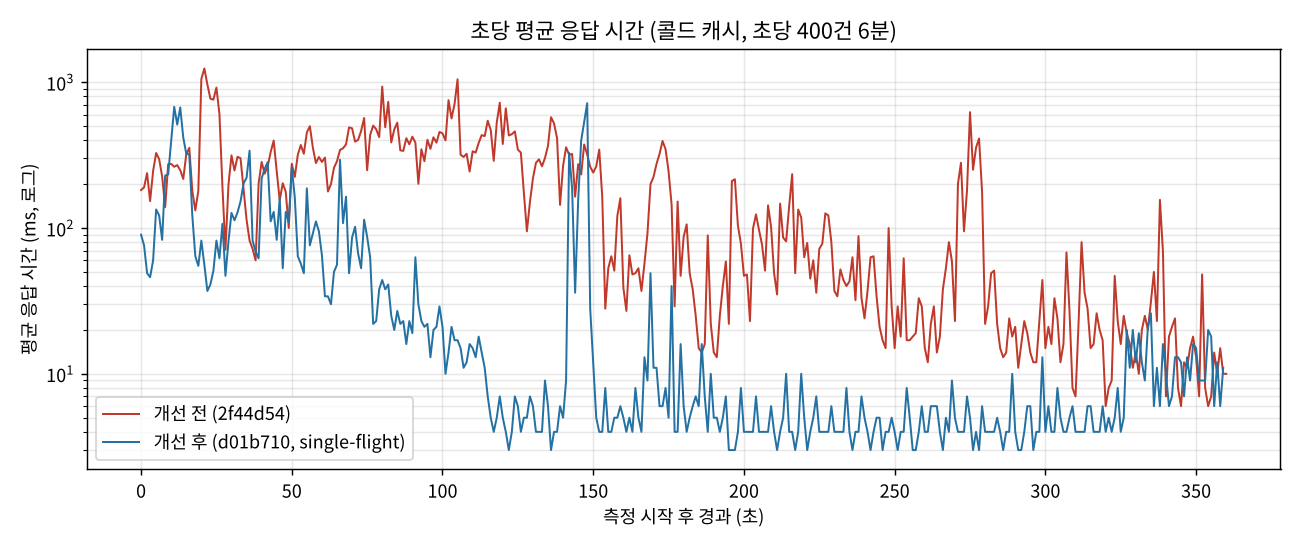
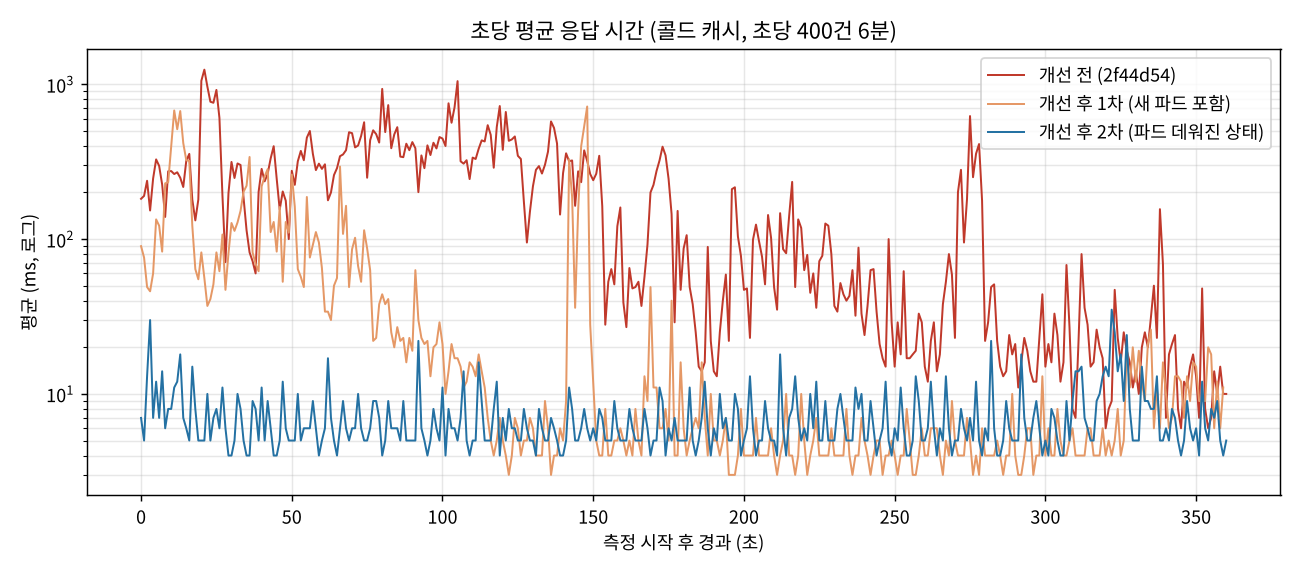
docs: BE6 결과의 추정·누적값 표시와 11/9 측정 출처 명시(#327)

diff --git a/docs/performance/redirect-cache-single-flight/README.md b/docs/performance/redirect-cache-single-flight/README.md
@@ -4,18 +4,30 @@
 
 ## 요약
 
-| | 개선 전 | 개선 후 | 변화 |
-|---|---|---|---|
-| 중앙값 | 36.5ms | **5.2ms** | 7배 |
-| p95 | 540ms | **195ms** | 2.8배 |
-| p99 | 2.9s | **489ms** | 6배 |
-| max | 26.5s | 13.9s | 절반 |
-| 평균 200ms 를 넘은 초 | 143초 / 360초 | **20초** | |
-| DB 커넥션 대기 최대 | **163** | **0** | |
-| 측정 중 DB 조회 | 수천 번 | **65번** (326번은 합류) | |
-| 요청 실패 | 0% | 0% | |
+캐시가 비거나 Redis 조회가 실패하면 같은 링크를 요청마다 DB 에서 조회해 커넥션 풀(8개)이 꽉 찼다.
+같은 링크의 동시 조회를 파드 안에서 한 번으로 합쳐(single-flight) 이 문제를 없앴다.
 
-**캐시가 비거나 Redis 조회가 실패할 때 같은 링크를 요청마다 DB 에서 조회해 커넥션 풀(8개)이 꽉 차던 문제**를, 같은 링크의 동시 조회를 파드 안에서 한 번으로 합쳐 없앴다.
+- 콜드 캐시로 시작할 때 동시 미스 10번 → **DB 조회 2번** (파드당 1번). 11/9 측정에서는 같은 상황에 DB 대기 71, 최대 7초
+- 부하 중 Redis 조회 에러 354번이 나도 **DB 대기 0**. 개선 전에는 에러 2,258번에 DB 대기 163, 최대 26초
+
+| | 개선 전 | 개선 후 1차 (새 파드 포함) | 개선 후 2차 (파드 데워진 상태) |
+|---|---|---|---|
+| 중앙값 | 36.5ms | 5.2ms | **4.7ms** |
+| p95 | 540ms | 195ms | **21ms** |
+| p99 | 2.9s | 489ms | **46ms** |
+| max | 26.5s | 13.9s | **0.21s** |
+| 평균 200ms 를 넘은 초 | 143 / 360 | 20 | **0** |
+| k6 가 못 보낸 요청 | 350 | 631 | **0** |
+| DB 커넥션 대기 최대 | **163** | **0** | **0** |
+| Redis 조회 에러 | 2,258 (누적¹) | 354 | 0 |
+| DB 조회 (측정 중) | 수천 번 (추정²) | 65 | 2 |
+| 요청 실패 | 0% | 0% | 0% |
+
+¹ 개선 전 값은 측정 중 증가분이 아니라 파드가 뜬 뒤 누적값이다 (카나리 판단 요청이 조금 섞임). 개선 후 값은 측정 중 증가분이다.
+² 개선 전 버전에는 DB 조회 지표가 없어, 캐시 미스·에러 수(대부분 각자 DB 조회로 이어짐)로 추정했다.
+
+개선 후 2차의 좋은 꼬리 지연(p99 46ms)에는 그날 Redis 에러가 0 이었던 영향도 섞여 있다.
+single-flight 의 효과는 **에러·미스가 나도 DB 대기가 생기지 않는 것**(1차·2차 모두 0)으로 판단한다.
 
 ## 측정 조건
 
@@ -24,11 +36,12 @@
 | 환경 | 온프렘 VM 클러스터 (워커 2대, 각 2코어) |
 | 부하 | k6 `constant-arrival-rate` 초당 400건, 6분, 리다이렉트 따라가지 않음 (`redirects: 0`) |
 | 대상 | 링크 1개 (`loss01`), **시작 전 캐시를 지움** (`redis-cli DEL link:loss01`) |
-| 배치 | redirect 파드 2개 (w1·w2 각 1개), Redis w2, MySQL w1 |
+| 배치 | redirect 파드 2개 (w1·w2 각 1개), Redis w2, MySQL w1 (세 측정 모두 같음) |
 | 파드 자원 | redirect CPU limit 1코어, DB 커넥션 풀 8개 |
-| 개선 전 | 이미지 `2f44d54`, 2026-11-10 05:06~05:12 UTC |
-| 개선 후 | 이미지 `d01b710`, 2026-11-10 05:55~06:01 UTC |
-| 차이 | **single-flight(#324) 하나뿐** (다른 PR 은 개선 전 측정 전에 먼저 반영) |
+| 개선 전 | 이미지 `2f44d54`, 2026-11-10 05:06 UTC |
+| 개선 후 1차 | 이미지 `d01b710`, 05:55 UTC. w2 파드가 측정 3분 전에 새로 뜬 상태 |
+| 개선 후 2차 | 이미지 `d01b710`, 06:39 UTC. 두 파드 모두 50분 이상 떠 있던 상태 |
+| 차이 | 개선 전 ↔ 후는 **single-flight(#324) 하나뿐** (다른 PR 은 개선 전 측정 전에 반영) |
 
 부하 발생기(k6)와 지표 수집은 컨트롤플레인(cp1)에서 돌려 측정 대상(워커)과 자원을 나누지 않았다.
 측정 중에는 Argo CD 자동 동기화를 꺼서 배포가 끼어들지 않게 했다.
@@ -39,14 +52,11 @@
 
 ![초당 평균 응답 시간](01-avg-latency.png)
 
-개선 전에는 6분 내내 평균 수백 ms 가 반복됐다. 개선 후에는 시작 2분 정도를 지나면 평균 3~10ms 로 안정됐다.
-
 ### 초당 최대 응답 시간
 
 ![초당 최대 응답 시간](02-max-latency.png)
 
-개선 전에는 최대값이 1초에 1초씩 늘어나는 구간(예: 20초 → 26초)이 여러 번 있다. 요청들이 DB 커넥션을 줄 서서 기다리다 응답한 흔적이다.
-개선 후에는 시작 직후 한 구간(최대 13.9초)을 빼면 대부분 1초 아래다.
+개선 전에는 최대값이 1초에 1초씩 늘어나는 구간(20초 → 26초 등)이 여러 번 있다. 요청들이 DB 커넥션을 줄 서서 기다리다 응답한 흔적이다.
 
 ### 응답 시간 분포
 
@@ -56,7 +66,7 @@
 
 ![DB 커넥션 대기](04-hikari-pending.png)
 
-개선 전에는 측정 내내 대기가 수십~163개까지 쌓였고, 개선 후에는 한 번도 생기지 않았다.
+개선 전에는 측정 내내 대기가 수십~163개까지 쌓였고, 개선 후에는 두 번 모두 한 번도 생기지 않았다.
 
 ## 원인
 
@@ -67,14 +77,14 @@
 → 응답이 수 초~수십 초 밀림
 ```
 
-두 번의 측정에서 DB 로 몰린 계기가 달랐다.
+DB 로 몰린 계기는 두 가지였다.
 
 | 측정 | 계기 | 증거 |
 |---|---|---|
-| 11/9 (max 7.07s) | **시작 때 캐시 미스** (캐시 스탬피드) | 지연이 시작 4초에 몰림. 캐시를 데우고 다시 재면 max 103ms |
+| 11/9 (max 7.07s) | **시작 때 캐시 미스** (캐시 스탬피드) | 지연이 시작 4초에 몰림. DB 대기 71. 캐시를 데우고 다시 재면 max 103ms |
 | 11/10 개선 전 (max 26.5s) | **부하 중 Redis 조회 실패** | Redis 와 다른 노드(w1)의 파드에서 캐시 에러 2,248번, 조회 평균 111ms. 파드 CPU 가 limit(1코어)에 붙어 Redis 클라이언트 처리가 밀림 |
 
-계기는 달라도 "같은 링크를 동시에 DB 로 조회해 풀이 꽉 찬다"는 끝은 같다. GC(최대 0.12초), Redis 자체(응답 0.45ms), 노드 간 네트워크(1ms)는 원인이 아니었다.
+GC(최대 0.12초), Redis 자체(응답 0.45ms), 노드 간 네트워크(1ms)는 원인이 아니었다.
 
 ## 개선
 
@@ -88,29 +98,39 @@
 
 캐시 에러로 DB 에 갈 때도 같은 경로를 타서, 위 두 계기를 모두 막는다.
 
-### 캐시·DB 지표 (개선 후 측정 중 증가분)
+### 캐시·DB 지표 (측정 중 증가분)
 
-| 파드 | DB 조회 | 합류 | 캐시 에러 | 캐시 미스 | 캐시 적중 |
+| 측정 | 캐시 적중 | 캐시 미스 | 캐시 에러 | **DB 조회** | 합류 |
 |---|---|---|---|---|---|
-| w1 | 5 | 131 | 118 | 18 | 70,234 |
-| w2 | 60 | 195 | 236 | 19 | 72,744 |
-| 합계 | **65** | **326** | 354 | 37 | 142,978 |
+| 개선 후 1차 | 142,978 | 37 | 354 | **65** | 326 |
+| 개선 후 2차 | 143,990 | 10 | 0 | **2** | 8 |
 
-`redirect_cache_load_total{result="db"|"joined"}`, `redirect_cache_result_total{result}` 의 측정 전후 차이다.
-캐시 에러·미스가 391번 있었지만 DB 조회는 65번이었고, 나머지는 진행 중인 조회에 합류했다.
+`redirect_cache_result_total{result}`, `redirect_cache_load_total{result="db"|"joined"}` 의 측정 전후 차이다.
+1차는 미스·에러 391번이 DB 조회 65번으로, 2차는 콜드 시작의 미스 10번이 DB 조회 2번으로 합쳐졌다.
+캐시 적중률은 개선 전 약 97.6%(파드 누적값 기준, 카나리 판단 요청이 조금 섞임), 개선 후 99.7% 로 원래도 높았고,
+문제는 적중률이 아니라 남은 미스·에러가 동시에 DB 로 몰리는 것이었다.
+
+## 개선 후 1차의 max 13.9초
+
+1차의 5초 넘은 요청은 50건(0.035%)이었다. 모두 `loss01` 정상 302 이고, 측정 시작 직후(05:55:01, 05:55:06~07)에 들어와 시작 12~15초 뒤 한꺼번에 응답했다.
+그 시점 DB 대기·GC 는 0 이었다.
+
+같은 조건에서 파드가 데워진 뒤(2차) 다시 재면 max 0.21초로 재현되지 않았다.
+1차는 w2 파드가 측정 3분 전에 새로 뜬 상태였고, 온프렘은 장애 대응으로 워밍업을 줄여 둔 상태(요청 3,000번, #320)라 **새 파드가 첫 부하를 받는 콜드스타트**로 판단한다. single-flight 와는 무관하며, prod 의 배포 직후 콜드스타트(#273)와 같은 종류다.
 
 ## 남은 과제
 
 | 남은 것 | 원인 (추정) | 다음 단계 |
 |---|---|---|
-| 시작 직후 max 13.9s | 초당 400건이 갑자기 들어올 때 CPU 포화·톰캣 스레드 증가. DB 대기·GC 는 0 | 톰캣 지표(`server.tomcat.mbeanregistry.enabled`)를 켜고 1초 단위로 재측정 |
-| 캐시 에러 354번 → p99 489ms | 파드 CPU limit 1코어에서 Redis 클라이언트 처리가 밀려 500ms 타임아웃 | CPU limit 을 올려 재측정 |
+| Redis 에러가 있을 때 p99 약 0.5초 | 파드 CPU limit 1코어에서 Redis 클라이언트 처리가 밀려 500ms 타임아웃 | CPU limit 을 올려 재측정 |
+| 새 파드의 첫 부하 지연 (1차 max 13.9s) | 온프렘 워밍업 축소 상태의 콜드스타트 | 새 파드 직후 측정을 따로 해 워밍업 설정과 비교 |
 | 없는 링크는 캐시하지 않음 | 없는 주소를 대량으로 부르면 전부 DB 로 감 (카나리 k6 로 발견, 2분에 1,169번) | 없는 링크도 짧게 캐시 |
 
 ## 측정 한계
 
-- 개선 전·후 각 1회 측정이다. 반복 측정으로 편차를 확인하지 않았다
-- 지표는 5~9초 간격으로 수집했고, 노드·파드 CPU(`kubectl top`)는 약 1분 늦게 반영된다. 1초 단위의 순간 원인은 보이지 않는다
+- 개선 전은 1회, 개선 후는 2회 측정이다
+- 지표는 5~9초 간격으로 수집했고, 노드·파드 CPU(`kubectl top`)는 약 1분 늦게 반영된다
+- 2차의 1초 단위 수집(`sample1s`)은 부하 시작 약 50초 전에 시작해 시작 구간을 담지 못했다
 - 온프렘 VM(노트북 위)이라 호스트 상태가 결과에 영향을 줄 수 있다
 - Prometheus 스택은 온프렘 컨트롤플레인(2코어)이 버티지 못해 쓰지 않고, k6 결과와 `/actuator/prometheus` 를 주기적으로 기록했다
 
@@ -136,7 +156,8 @@ kubectl apply -f /home/k8s/argocd/snipy-dev-app.yaml
 
 | 파일 | 내용 |
 |---|---|
-| `k6-20261110-050647.txt`, `k6-20261110-055501.txt` | k6 요약 (개선 전, 개선 후) |
+| `k6-20261110-050647.txt`, `k6-20261110-055501.txt`, `k6-20261110-063948.txt` | k6 요약 (개선 전, 개선 후 1차, 2차) |
 | `k6-per-sec-*.txt` | 초 단위 `시각 요청수 평균ms 최대ms` |
 | `metrics-*.csv` | 5~9초 간격 노드 CPU, 파드 CPU·메모리, DB 커넥션, GC |
-| `cache-before.txt`, `cache-after.txt` | 개선 후 측정 직전·직후 캐시·DB 지표 |
+| `cache-before.txt`, `cache-after.txt`, `cache-run2-after.txt` | 1차 직전, 1차 직후(=2차 직전), 2차 직후 캐시·DB 지표 |
+| `sample1s-063857.csv` | 1초 간격 DB 커넥션·캐시 지표 (2차, 부하 시작 전 구간) |
